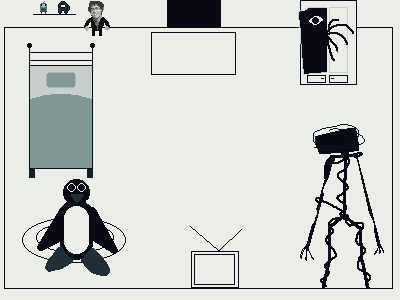
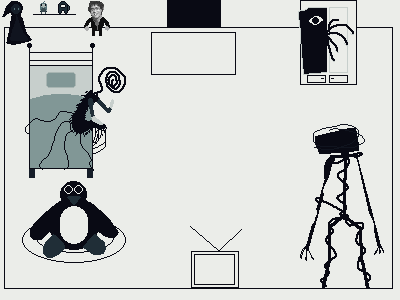
a sala de um jogo é algo bem interessante, jogar em um jogo faz a gente jogar algo de longe?

diff --git a/public/game.js b/public/game.js
@@ -84,9 +84,9 @@ const MAPAS = {
             { destino: "o_quarto", x: 180, y: 292, w: 70, h: 8, spawnX: 184, spawnY: 40 }  
         ]
     },
-    "sala_jogos": { nome: "SALA DE JOGOS", corFundo: "#444444", imagemPath: "assets/mapa_sala_jogos.png", portas: [{ destino: "the_hub", x: 380, y: 130, w: 20, h: 40, spawnX: 45, spawnY: 225 }] },
+    "sala_jogos": { nome: "SALA DE JOGOS", corFundo: "#444444", imagemPath: "assets/sala_jogos.png", portas: [{ destino: "the_hub", x: 380, y: 130, w: 20, h: 40, spawnX: 45, spawnY: 225 }] },
     "museu": { nome: "MUSEU", corFundo: "#111111", imagemPath: "assets/mapa_museu.png", portas: [{ destino: "the_hub", x: 0, y: 130, w: 20, h: 40, spawnX: 315, spawnY: 160 }] },
-    "floresta": { nome: "FLORESTA", corFundo: "#1a1a1a", imagemPath: "assets/mapa_floresta.png", portas: [{ destino: "the_hub", x: 180, y: 280, w: 40, h: 20, spawnX: 110, spawnY: 145 }] },
+    "floresta": { nome: "FLORESTA", corFundo: "#1a1a1a", imagemPath: "assets/floresta.png", portas: [{ destino: "the_hub", x: 180, y: 280, w: 40, h: 20, spawnX: 110, spawnY: 145 }] },
     "o_quarto": { nome: "O QUARTO", corFundo: "#050505", imagemPath: "assets/mapa_o_quarto.png", portas: [{ destino: "the_hub", x: 180, y: 0, w: 40, h: 20, spawnX: 214, spawnY: 250 }] }
 };
 

diff --git a/server.py b/server.py
@@ -50,7 +50,11 @@ async def mover_jogador(websocket, nova_sala):
                 "x": JOGADORES[outro_ws]["x"],
                 "y": JOGADORES[outro_ws]["y"],
                 "spriteId": JOGADORES[outro_ws]["spriteId"],
+<<<<<<< Updated upstream
                 "lado": JOGADORES[outro_ws].get("lado", "direita")
+=======
+                "lado": JOGADORES[outro_ws].get("lado", "direita") # Registra o lado dos veteranos
+>>>>>>> Stashed changes
             })
     
     # Envia a lista completa de uma só vez para o utilizador
@@ -63,6 +67,7 @@ async def mover_jogador(websocket, nova_sala):
         except Exception:
             pass
     
+<<<<<<< Updated upstream
     # 3. Introduz oficialmente o jogador na nova sala e avisa toda a gente de lá
     if websocket in JOGADORES:
         JOGADORES[websocket]["sala"] = nova_sala
@@ -100,6 +105,21 @@ async def handler(websocket):
     # Dispara o trabalhador de background para este cliente
     tarefa_escrita = asyncio.create_task(escritor_cliente(websocket, queue))
     
+=======
+    JOGADORES[websocket]["sala"] = nova_sala
+    SALAS[nova_sala].add(websocket)
+    
+    await enviar_para_sala(nova_sala, {
+        "tipo": "novo_jogador", "id": id(websocket),
+        "username": JOGADORES[websocket]["username"],
+        "x": JOGADORES[websocket]["x"], "y": JOGADORES[websocket]["y"],
+        "spriteId": JOGADORES[websocket]["spriteId"],
+        "lado": JOGADORES[websocket].get("lado", "direita") # Alerta o lado do novato
+    })
+
+async def handler(websocket):
+    JOGADORES[websocket] = {"username": "Anônimo", "sala": None, "x": 200, "y": 150, "spriteId": "cinzaguy", "lado": "direita"}
+>>>>>>> Stashed changes
     try:
         async_iterable = websocket.__aimg__ if hasattr(websocket, '__aimg__') else websocket
         async for message in async_iterable:
@@ -134,12 +154,20 @@ async def handler(websocket):
             elif dados["tipo"] == "mover":
                 JOGADORES[websocket]["x"] = dados["x"]
                 JOGADORES[websocket]["y"] = dados["y"]
+<<<<<<< Updated upstream
                 JOGADORES[websocket]["lado"] = dados.get("lado", "direita")
                 
                 await enviar_para_sala(sala_atual, {
                     "tipo": "movimento", "id": id(websocket),
                     "x": dados["x"], "y": dados["y"],
                     "lado": JOGADORES[websocket]["lado"] 
+=======
+                JOGADORES[websocket]["lado"] = dados.get("lado", "direita") # Salva direção na RAM
+                await enviar_para_sala(sala_atual, {
+                    "tipo": "movimento", "id": id(websocket),
+                    "x": dados["x"], "y": dados["y"],
+                    "lado": JOGADORES[websocket]["lado"] # Replica para a sala
+>>>>>>> Stashed changes
                 })
                 
             elif dados["tipo"] == "mudar_sala":
@@ -197,6 +225,12 @@ def abrir_porta_firewall(porta):
     except Exception:
         print(f"⚠️ [Aviso] Sem permissão para auto-configurar o Firewall na porta {porta}.")
 
+<<<<<<< Updated upstream
+=======
+# ==========================================
+# SERVIDOR WEB DE ARQUIVOS BACKGROUND
+# ==========================================
+>>>>>>> Stashed changes
 def rodar_servidor_web_background():
     dir_alvo = "public" if os.path.exists("public") else "."
     class HandlerCustomizado(SimpleHTTPRequestHandler):
@@ -209,6 +243,12 @@ def rodar_servidor_web_background():
     except Exception as e:
         print(f"❌ Erro no Servidor Web: {e}")
 
+<<<<<<< Updated upstream
+=======
+# ==========================================
+# RUN
+# ==========================================
+>>>>>>> Stashed changes
 async def main():
     print("=" * 65)
     print("        SALA 33 - HUB DE EXECUÇÃO UNIFICADO (LAN ACTIVE)        ")